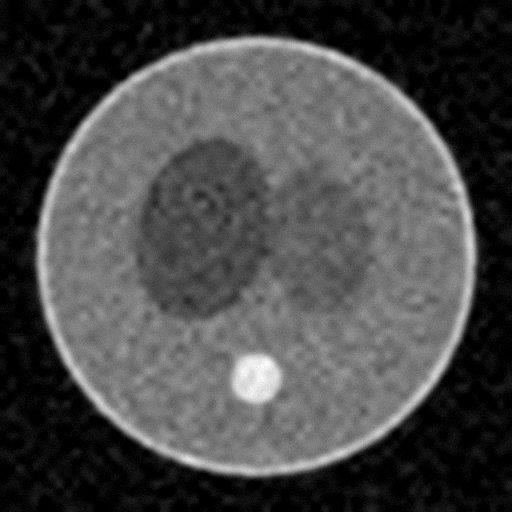
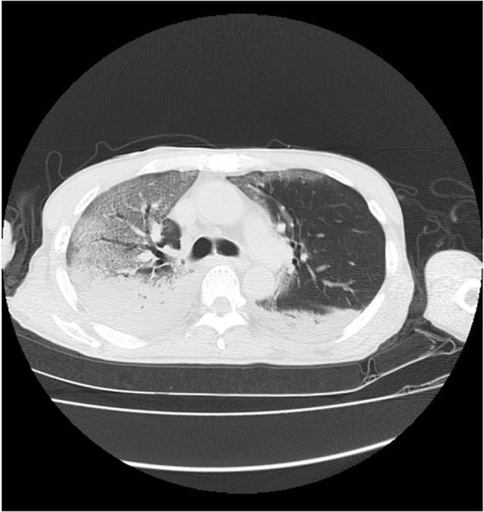
fix: demo fixtures that hold up under the real model backend
The synthetic seed images were out of distribution for the trained
CNNs (everything classified mri, the tampered star scored authentic,
and the seeder's likely_fraudulent assertion crashed mid-run leaving a
partial demo). Replaces them with vetted ROCOv2 test images that score
cleanly, and rebuilds the demo star as a real x-ray with copy-move,
splice, and double-JPEG manipulation wrapped in a DICOM whose Modality
tag contradicts the declared modality. The metadata signal now hard-
overrides on declared-vs-tag contradiction (deterministic, no model
luck), the seeder mirrors the upload router's DICOM branch so metadata
reaches the analyzer, and the verdict expectation accepts both fusion
bands. Adds asset attribution.

diff --git a/backend/scripts/seed.py b/backend/scripts/seed.py
@@ -48,6 +48,7 @@ from app.models import (
     User,
 )
 from app.rag.indexer import index_closed_case
+from app.services.dicom_preview import process_dicom, sniff_kind
 from app.services.inference_runner import run_stage1, run_stage2, run_stage3
 from app.services.notifications.service import render_claim_returned, send_claim_email
 from app.workflow import state_machine
@@ -308,6 +309,16 @@ def _attach_seed_asset(
     target_dir.mkdir(parents=True, exist_ok=True)
     target = target_dir / asset_name  # keep the filename ('tampered' drives the demo)
     shutil.copyfile(source, target)
+
+    # Mirror the upload router's DICOM branch: de-identify in place, extract the
+    # safe metadata dict (the analyzer's metadata signal reads it), render preview.
+    sniffed = sniff_kind(target, "")
+    dicom_meta_json: str | None = None
+    preview_path: str | None = None
+    if sniffed == "dicom":
+        meta, preview_path = process_dicom(target)
+        dicom_meta_json = json.dumps(meta)
+    mime = {"dicom": "application/dicom", "png": "image/png", "jpeg": "image/jpeg"}[sniffed]
     data = target.read_bytes()
 
     document = Document(
@@ -316,10 +327,12 @@ def _attach_seed_asset(
         kind=DocumentKind.IMAGING,
         modality=modality,
         filename=asset_name,
-        mime="image/png",
+        mime=mime,
         size_bytes=len(data),
         sha256=hashlib.sha256(data).hexdigest(),
         storage_path=str(target),
+        preview_path=preview_path,
+        dicom_meta_json=dicom_meta_json,
     )
     session.add(document)
     session.flush()
@@ -614,13 +627,15 @@ def seed_fixtures(session: Session, settings: Settings) -> list[str]:
         incident_date=date(2026, 5, 12),
     )
 
-    # b. THE DEMO STAR: tampered x-ray flagged likely_fraudulent in IMAGING_REVIEW.
+    # b. THE DEMO STAR: a tampered study (copy-move + splice on a real x-ray, wrapped
+    # in a DICOM whose Modality tag says CT) flagged non-authentic in IMAGING_REVIEW.
+    # stub: filename hook -> likely_fraudulent; real: CNN + metadata override -> suspicious.
     tampered = _submit_with_imaging(
         session,
         settings,
         claimant=claimant,
         claim_ref=REF_IMAGING_TAMPERED,
-        asset_name="tampered_xray.png",
+        asset_name="tampered_xray.dcm",
         modality=Modality.XRAY,
         procedure_code="IMG-201",
         diagnosis_code="S82.1",
@@ -631,8 +646,9 @@ def seed_fixtures(session: Session, settings: Settings) -> list[str]:
     tampered_report = _latest_complete_report(session, tampered.id)
     _expect(
         tampered_report is not None
-        and tampered_report.authenticity_verdict == "likely_fraudulent",
-        f"{REF_IMAGING_TAMPERED}: expected likely_fraudulent verdict",
+        and tampered_report.authenticity_verdict in ("suspicious", "likely_fraudulent"),
+        f"{REF_IMAGING_TAMPERED}: expected a non-authentic verdict, got "
+        f"{tampered_report.authenticity_verdict if tampered_report else 'no report'}",
     )
 
     # c. SPECIALIST_REVIEW: clean CT forwarded by the imaging specialist.

diff --git a/backend/app/ml/imaging/real.py b/backend/app/ml/imaging/real.py
@@ -200,12 +200,16 @@ def _fft_periodicity(gray: np.ndarray) -> tuple[float, str]:
 
 
 def _metadata_consistency(
-    dicom_meta: dict | None, predicted_modality: str, is_dicom: bool
+    dicom_meta: dict | None,
+    predicted_modality: str,
+    declared_modality: str | None,
+    is_dicom: bool,
 ) -> tuple[float, str, bool]:
     """Score metadata coherence; returns (score, finding, hard_override).
 
     hard_override fires when the DICOM Modality tag maps to a known modality that
-    contradicts the CNN prediction — the strongest single fraud tell we have.
+    contradicts either the CNN prediction or the claimant's declared modality —
+    the strongest single fraud tells we have, and neither depends on model luck.
     """
     if not dicom_meta:
         if is_dicom:
@@ -213,6 +217,13 @@ def _metadata_consistency(
         return 0.20, "No acquisition metadata available (non-DICOM upload).", False
 
     tag_modality = _DICOM_MODALITY_MAP.get(str(dicom_meta.get("Modality", "")).upper())
+    if tag_modality is not None and declared_modality and tag_modality != declared_modality:
+        return (
+            0.90,
+            f"DICOM Modality tag ({tag_modality}) contradicts the declared "
+            f"modality ({declared_modality}) — metadata hard-override.",
+            True,
+        )
     if tag_modality is not None and tag_modality != predicted_modality:
         return (
             0.90,
@@ -263,7 +274,7 @@ class RealAnalyzer:
         ela_score, ela_finding = _ela_localization(gray)
         fft_score, fft_finding = _fft_periodicity(gray)
         meta_score, meta_finding, hard_override = _metadata_consistency(
-            dicom_meta, modality, is_dicom
+            dicom_meta, modality, declared_modality, is_dicom
         )
 
         forensic = (

diff --git a/backend/tests/test_real_analyzer.py b/backend/tests/test_real_analyzer.py
@@ -146,6 +146,21 @@ def test_metadata_hard_override_forces_at_least_suspicious(
     assert "hard-override" in meta.finding
 
 
+def test_declared_modality_mismatch_forces_at_least_suspicious(
+    weights_dir: Path, settings: Settings, tmp_path: Path
+):
+    """The declared-vs-tag contradiction must fire regardless of what the CNN says."""
+    analyzer = get_analyzer(settings)
+    image = write_png(tmp_path, _gradient_image(), "declared.png")
+    analysis = analyzer.analyze(
+        image, declared_modality="xray", dicom_meta={"Modality": "CT"}
+    )
+    assert analysis.authenticity_verdict in {"suspicious", "likely_fraudulent"}
+    assert analysis.authenticity_risk >= 0.50
+    meta = _signal(analysis, "metadata")
+    assert "declared" in meta.finding and "hard-override" in meta.finding
+
+
 def test_consistent_dicom_metadata_does_not_override(
     weights_dir: Path, settings: Settings, tmp_path: Path
 ):

diff --git a/backend/tests/test_seed.py b/backend/tests/test_seed.py
@@ -172,9 +172,11 @@ def test_fixtures_create_exactly_seven_claims_in_the_right_states(
     assert actual == FIXTURE_STATES
 
 
-def test_tampered_claim_report_is_likely_fraudulent(
+def test_tampered_claim_report_is_flagged(
     seeded: tuple[Session, Settings, SeedSummary],
 ) -> None:
+    """Non-authentic either way: the stub's filename hook says likely_fraudulent,
+    the real fusion lands suspicious via CNN + metadata hard-override."""
     session, _, _ = seeded
     claim = _claim_by_ref(session, REF_IMAGING_TAMPERED)
     report = session.scalar(
@@ -184,10 +186,12 @@ def test_tampered_claim_report_is_likely_fraudulent(
         .limit(1)
     )
     assert report is not None
-    assert report.authenticity_verdict == "likely_fraudulent"
+    assert report.authenticity_verdict in ("suspicious", "likely_fraudulent")
     assert report.requires_mandatory_review is True
     document = session.scalar(select(Document).where(Document.claim_id == claim.id))
     assert document is not None and "tampered" in document.filename
+    assert document.mime == "application/dicom"
+    assert document.dicom_meta_json is not None  # metadata signal feeds on this
 
 
 def test_specialist_and_adjudication_artifacts_are_complete(

diff --git a/backend/tests/test_specialist_flow.py b/backend/tests/test_specialist_flow.py
@@ -30,7 +30,7 @@ from app.models import (
 )
 from tests.conftest import login
 
-SEED_TAMPERED = Path(__file__).resolve().parents[1] / "seed-assets" / "tampered_xray.png"
+SEED_TAMPERED = Path(__file__).resolve().parents[1] / "seed-assets" / "tampered_xray.dcm"
 
 CLAIM_BODY = {
     "claim_type": "imaging",
@@ -296,7 +296,7 @@ def test_tampered_image_forces_further_testing_and_mandatory_review(
 ) -> None:
     assert SEED_TAMPERED.is_file()
     claim = _claim_in_imaging_review(
-        client, session, users, tmp_path, filename="tampered_xray.png", source=SEED_TAMPERED
+        client, session, users, tmp_path, filename="tampered_xray.dcm", source=SEED_TAMPERED
     )
 
     report = session.scalar(

diff --git a/backend/seed-assets/ATTRIBUTION.md b/backend/seed-assets/ATTRIBUTION.md
@@ -1,0 +1,9 @@
+# Seed asset provenance
+
+`clean_xray.png`, `clean_ct.png`, `clean_mri.png`, and the base image inside
+`tampered_xray.dcm` are radiology images from the ROCOv2 dataset
+(Pelka et al., `eltorio/ROCOv2-radiology`, CC BY-NC-SA 4.0), used here as
+non-commercial demo fixtures. `tampered_xray.dcm` additionally carries
+deliberate copy-move + splice + double-JPEG manipulation and a contradicting
+DICOM Modality tag — it exists to demonstrate the authenticity tripwire and is
+NOT a real study.